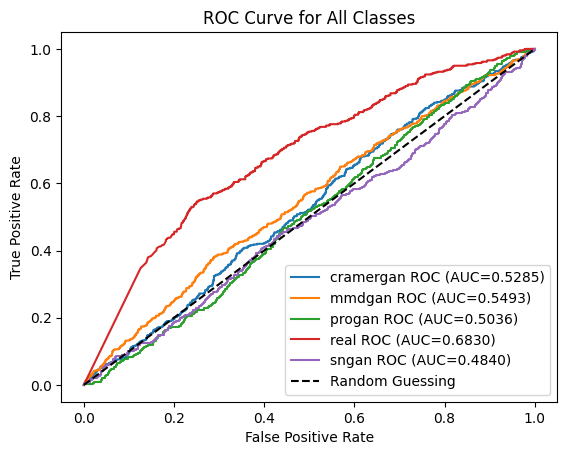
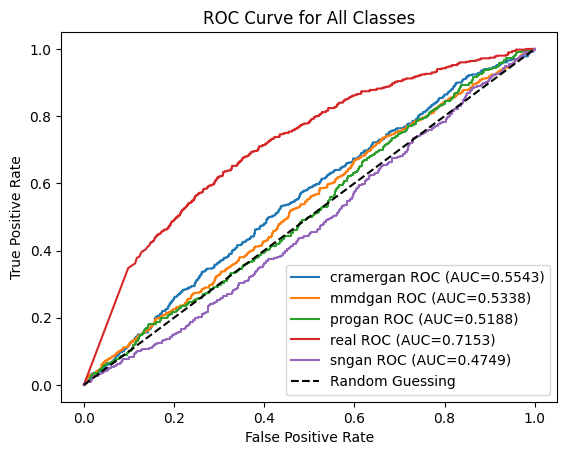
feat: update pipeline for metrics

diff --git a/metrics/get_metrics.py b/metrics/get_metrics.py
@@ -29,52 +29,48 @@ def output_auc_roc_score():
     results_root = Path(RESULTS_DIR)
     marker = "<" * 50 + "PROBABILITIES" + ">" * 50
 
-    found_probabilities = False
-    for result_txt in results_root.rglob("classification_results/*.txt"):
+    # found_probabilities = False
+    for result_txt in results_root.rglob("classification_results/probabilities.txt"):
         with open(result_txt, "r") as file:
+            true_classes = []
+            probabilities = []
+            label_line = next(file).split()[1]
+            label_line_split = label_line.split(",")
+            labels = [
+                label_line_split[0].split("_")[1].lower(),
+                label_line_split[1][:label_line_split[1].index("_")].lower(),
+                label_line_split[2][:label_line_split[2].index("_")].lower(),
+                label_line_split[3][:label_line_split[3].index("_")].lower(),
+                label_line_split[4][:label_line_split[4].index("_")].lower()
+            ]
             for line in file:
-                if marker in line:
-                    found_probabilities = True
-                    break
-            if found_probabilities:
-                true_classes = []
-                probabilities = []
-                label_line = next(file).split()[1]
-                label_line_split = label_line.split(",")
-                labels = [
-                    label_line_split[0].split("_")[1].lower(),
-                    label_line_split[1][:label_line_split[1].index("_")].lower(),
-                    label_line_split[2][:label_line_split[2].index("_")].lower(),
-                    label_line_split[3][:label_line_split[3].index("_")].lower(),
-                    label_line_split[4][:label_line_split[4].index("_")].lower()
-                ]
-                for line in file:
-                    data_line = line.split("|")
-                    image_file = data_line[0].split()[1]
-                    real_class = image_file[:image_file.index("_")]
-                    true_classes.append(real_class)
-                    probabilities.append(list(map(float, data_line[1].split()[1].split(","))))
-                df = pd.DataFrame(data=probabilities, columns=labels)
-                df.insert(0, "True Class", true_classes)
+                data_line = line.split("|")
+                image_file = data_line[0].split()[1]
+                real_class = image_file[:image_file.index("_")]
+                true_classes.append(real_class)
+                probabilities.append(list(map(float, data_line[1].split()[1].split(","))))
+            df = pd.DataFrame(data=probabilities, columns=labels)
+            df.insert(0, "True Class", true_classes)
 
-                plt.figure()
-                roc_auc_scores = []
-                for class_ in df["True Class"].unique():
-                    binary_class = df["True Class"] == class_
-                    scores = df[class_]
-                    roc_auc_score = metrics.roc_auc_score(
-                        y_true = binary_class, 
-                        y_score = scores,
-                    )
-                    roc_auc_scores.append((class_, roc_auc_score))
-                    fpr, tpr, _ = metrics.roc_curve(binary_class, scores)
-                    plt.plot(fpr, tpr, label=f"{class_} ROC (AUC={roc_auc_score:.4f})")
-                plt.plot([0, 1], [0, 1], 'k--', label='Random Guessing')
-                plt.legend()
-                plt.xlabel("False Positive Rate")
-                plt.ylabel("True Positive Rate")
-                plt.title("ROC Curve for All Classes")
-                plt.savefig("roc_curve.png", format="png", bbox_inches="tight")
+            plt.figure()
+            roc_auc_scores = []
+            for class_ in df["True Class"].unique():
+                binary_class = df["True Class"] == class_
+                scores = df[class_]
+                roc_auc_score = metrics.roc_auc_score(
+                    y_true = binary_class, 
+                    y_score = scores,
+                )
+                roc_auc_scores.append((class_, roc_auc_score))
+                fpr, tpr, _ = metrics.roc_curve(binary_class, scores)
+                plt.plot(fpr, tpr, label=f"{class_} ROC (AUC={roc_auc_score:.4f})")
+            plt.plot([0, 1], [0, 1], 'k--', label='Random Guessing')
+            plt.legend()
+            plt.xlabel("False Positive Rate")
+            plt.ylabel("True Positive Rate")
+            plt.title("ROC Curve for All Classes")
+            plt.savefig("roc_curve.png", format="png", bbox_inches="tight")
+            found_probabilities = True
 
         if found_probabilities:
             break

diff --git a/FingerprintGAN/classifier/andrewm_scripts.py b/FingerprintGAN/classifier/andrewm_scripts.py
@@ -57,6 +57,15 @@ def classify(model_path, testing_data_path):
             im = np.transpose(misc.adjust_dynamic_range(im, [0,1], [-1,1]), axes=[2,0,1])
             im = np.reshape(im, [1]+list(im.shape))
             logits = C_im.run(im, minibatch_size=1, num_gpus=1, out_dtype=np.float32)
+            idx = np.argmax(np.squeeze(logits))
+            if logits.shape[1] == len(labels_1):
+                labels = list(labels_1)
+            if count_dict is None:
+                count_dict = {}
+                for label in labels:
+                    count_dict[label] = 0
+            count_dict[labels[idx]] += 1
+            print('Classifying %d/%d images: %s: predicted as being sampled from %s' % (count0, length, name, labels[idx]))
 
             # Andrew Michael code
             torch_logits = torch.from_numpy(logits)
